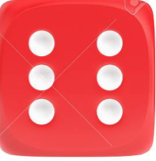
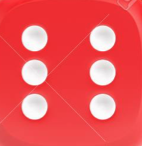
derniere mise à jour

diff --git a/jeude.js b/jeude.js
@@ -1,115 +1,115 @@
-function lancer() {
-    let nombre = Math.round(Math.random() * 5 + 1);
-    let resultat = document.querySelector('.de');
-    let currentJoueur1 = document.querySelector('.un');
-    let currentJoueur2 = document.querySelector('.deux');
-    let signal1 = document.querySelector('.signal1');
-    let signal2 = document.querySelector('.signal2');
+function hasard() {
+    let de = document.querySelector('.de');
+    let current1 = document.querySelector('.un');
+    let current2 = document.querySelector('.deux');
+    let currentActif = document.querySelector('.current.actif2');
 
-
-    if (nombre == 1) {
-        signal1.classList.toggle('lumiere');
-        signal2.classList.toggle('lumiere');
-        currentJoueur1.classList.toggle('actif');
-        currentJoueur2.classList.toggle('actif');
-        currentJoueur1.classList.toggle('inactif');
-        currentJoueur2.classList.toggle('inactif');
-        let actif = document.querySelector('.actif');
-        let inactif = document.querySelector('.inactif');
-
-
-        resultat.innerHTML = 1;
-
-
-    } else {
-
-        resultat.innerHTML = nombre;
-        let c = document.querySelector('.actif');
-
-        if (c.innerHTML == "") { c.innerHTML = 0; }
-        c.innerHTML = parseInt(c.innerHTML) + parseInt(resultat.innerHTML);
+    let n = Math.round(Math.random() * 5 + 1);
+    if (n == 1) {
+        de.className = 'de ein';
+        current1.innerHTML = 0;
+        current2.innerHTML = 0;
+        signal1.classList.toggle('actif');
+        signal2.classList.toggle('actif');
+        current1.classList.toggle('actif2');
+        current2.classList.toggle('actif2');
+        total1.classList.toggle('actif2');
+        total2.classList.toggle('actif2');
     }
 
-
-
+    if (n == 2) {
+        de.className = 'de zwei';
+        currentActif.innerHTML = parseInt(currentActif.innerHTML) + 2;
+    }
+    if (n == 3) {
+        de.cclassName = 'de drei';
+        currentActif.innerHTML = parseInt(currentActif.innerHTML) + 3;
+    }
+    if (n == 4) {
+        de.className = 'de vier';
+        currentActif.innerHTML = parseInt(currentActif.innerHTML) + 4;
+    }
+    if (n == 5) {
+        de.className = 'de funf';
+        currentActif.innerHTML = parseInt(currentActif.innerHTML) + 5;
+    }
+    if (n == 6) {
+        de.className = 'de sechs';
+        currentActif.innerHTML = parseInt(currentActif.innerHTML) + 6;
+    }
 }
 
 function tenir() {
-    let currentJoueur1 = document.querySelector('.un');
-    let currentJoueur2 = document.querySelector('.deux');
+    let currentActif = document.querySelector('.current.actif2');
+    let totalActif = document.querySelector('.total.actif2');
 
-    signal1.classList.toggle('lumiere');
-    signal2.classList.toggle('lumiere');
 
-    let totalJoueur1 = document.querySelector('.one');
-    let totalJoueur2 = document.querySelector('.two');
-    if (currentJoueur1.className != 0) {
-        totalJoueur1.innerHTML = parseInt(totalJoueur1.innerHTML) + parseInt(currentJoueur1.innerHTML);
 
-    }
-    if (totalJoueur1.innerHTML >= 100) {
+    total1.classList.toggle('actif2');
+    total2.classList.toggle('actif2');
+
+
+    totalActif.innerHTML = parseInt(totalActif.innerHTML) + parseInt(currentActif.innerHTML);
+    current1.classList.toggle('actif2');
+    current2.classList.toggle('actif2');
+    signal1.classList.toggle('actif');
+    signal2.classList.toggle('actif');
+
+    if (total1.innerHTML >= 100) {
         alert('Joueur 1 gagne!');
-        currentJoueur1.innerHTML = 0;
-        currentJoueur2.innerHTML = 0;
-        totalJoueur1.innerHTML = 0;
-        totalJoueur2.innerHTML = 0;
+        rejouer()
     }
-    if (currentJoueur2.innerHTML != 0) {
-        totalJoueur2.innerHTML = parseInt(totalJoueur2.innerHTML) + parseInt(currentJoueur2.innerHTML);
-
-    }
-    if (totalJoueur2.innerHTML >= 100) {
+    if (total2.innerHTML >= 100) {
         alert('Joueur 2 gagne!');
-        currentJoueur1.innerHTML = 0;
-        currentJoueur2.innerHTML = 0;
-        totalJoueur1.innerHTML = 0;
-        totalJoueur2.innerHTML = 0;
+        rejouer()
     }
-    currentJoueur1.classList.toggle('actif');
-    currentJoueur2.classList.toggle('actif');
-    currentJoueur1.classList.toggle('inactif');
-    currentJoueur2.classList.toggle('inactif');
-    currentJoueur1.innerHTML = 0;
-    currentJoueur2.innerHTML = 0;
+
+
+
+    current1.innerHTML = 0;
+    current2.innerHTML = 0;
 }
 
 function rejouer() {
-    let currentJoueur1 = document.querySelector('.un');
-    let currentJoueur2 = document.querySelector('.deux');
-
-    let totalJoueur1 = document.querySelector('.one');
-    let totalJoueur2 = document.querySelector('.two');
-    currentJoueur1.innerHTML = 0;
-    currentJoueur2.innerHTML = 0;
-    totalJoueur1.innerHTML = 0;
-    totalJoueur2.innerHTML = 0;
+    total1.innerHTML = 0;
+    total2.innerHTML = 0;
+    current1.innerHTML = 0;
+    current2.innerHTML = 0;
 }
 
 let toucheLancer = document.querySelector('.lancer');
-toucheLancer.addEventListener('click', lancer);
+toucheLancer.addEventListener('click', hasard);
 
 
-let toucheTenir = document.querySelector('.tenir');
-toucheTenir.addEventListener('click', tenir);
 
-let current1 = document.querySelector('.un');
-let current2 = document.querySelector('.deux');
-
-current1.classList.add('actif');
-current2.classList.add('inactif');
-
-let totalJoueur1 = document.querySelector('.one');
-let totalJoueur2 = document.querySelector('.two');
-
-let toucheRejouer = document.querySelector('.rejouer');
-toucheRejouer.addEventListener('click', rejouer);
 
 
 let signal1 = document.querySelector('.signal1');
 let signal2 = document.querySelector('.signal2');
+signal1.classList.add('actif');
 
-signal1.className = 'lumiere';
+let current1 = document.querySelector('.un');
+current1.innerHTML = 0;
 
+let current2 = document.querySelector('.deux');
+current2.innerHTML = 0;
 
-totalJoueur1.innerHTML = 0;
-totalJoueur2.innerHTML = 0;
+current1.classList.add('actif2');
+let currentActif = document.querySelector('.current.actif2');
+
+let boutonTenir = document.querySelector('.tenir');
+boutonTenir.addEventListener('click', tenir);
+
+let total = document.querySelectorAll('.total');
+total.innerHTML = 0;
+
+let total1 = document.querySelector('.total.one');
+let total2 = document.querySelector('.total.two');
+
+total1.innerHTML = 0;
+total2.innerHTML = 0;
+
+total1.classList.toggle('actif2');
+
+let toucheRejouer = document.querySelector('.rejouer');
+toucheRejouer.addEventListener('click', rejouer);

diff --git a/jeude2.css b/jeude2.css
@@ -36,6 +36,7 @@ body {
 .joueur {
     font-family: 'Lato', sans-serif;
     font-size: larger;
+    height: 4vh;
 }
 
 .current {
@@ -69,7 +70,7 @@ body {
 }
 
 .de {
-    background-color: black;
+    background-color: red;
     color: white;
     height: 10vh;
     width: 10vh;
@@ -78,8 +79,6 @@ body {
     left: 50vw;
     transform: translate(-50%, -50%);
     border-radius: 5px;
-    text-align: center;
-    line-height: 10vh;
 }
 
 .lancer {
@@ -116,18 +115,83 @@ body {
     color: black;
 }
 
-.lumiere {
-    height: 1vh;
-    width: 1vh;
-    border-radius: 50%;
-    background-color: red;
-    display: block;
-}
-
 .entete1 {
     display: flex;
 }
 
 .entete2 {
     display: flex;
+}
+
+.ein {
+    background-image: url('../Jeude/face/ein.png');
+    background-size: contain;
+    background-position: center;
+    background-repeat: no-repeat;
+    height: 11vh;
+    width: 11vh;
+    border-radius: 5px;
+}
+
+.zwei {
+    background-image: url('../Jeude/face/zwei.png');
+    background-size: contain;
+    background-position: center;
+    background-repeat: no-repeat;
+    height: 11vh;
+    width: 11vh;
+    border-radius: 5px;
+}
+
+.drei {
+    background-image: url('/Jeude/face/drei.png');
+    background-size: contain;
+    background-position: center;
+    background-repeat: no-repeat;
+    height: 11vh;
+    width: 11vh;
+    border-radius: 5px;
+}
+
+.vier {
+    background-image: url('../Jeude/face/vier.png');
+    background-size: contain;
+    background-position: center;
+    background-repeat: no-repeat;
+    height: 11vh;
+    width: 11vh;
+    border-radius: 5px;
+}
+
+.funf {
+    background-image: url('../Jeude/face/funf.png');
+    background-size: contain;
+    background-position: center;
+    background-repeat: no-repeat;
+    height: 11vh;
+    width: 11vh;
+    border-radius: 5px;
+}
+
+.sechs {
+    background-image: url('../Jeude/face/sechs.png');
+    background-size: contain;
+    background-position: center;
+    background-repeat: no-repeat;
+    height: 11vh;
+    width: 11vh;
+    border-radius: 5px;
+}
+
+.actif {
+    height: 1vh;
+    width: 1vh;
+    background-color: red;
+    border-radius: 50%;
+}
+
+.encadre {
+    display: flex;
+    height: 3vh;
+    align-items: center;
 }

diff --git a/jeude.html b/jeude.html
@@ -3,7 +3,7 @@
 
 <head>
     <meta charset="UTF-8">
-    <link rel="stylesheet" href="jeude.css">
+    <link rel="stylesheet" href="jeude2.css">
     <title>jeu de dé</title>
 </head>
 
@@ -17,7 +17,9 @@
         <div class="joueur1">
             <div class="entete1">
                 <div class="joueur">PLAYER 1</div>
-                <div class="signal1"></div>
+                <div class="encadre">
+                    <div class="signal1"></div>
+                </div>
             </div>
             <div class="total one"></div>
             <div class="current un"></div>
@@ -25,7 +27,9 @@
         <div class="joueur2">
             <div class="entete2">
                 <div class="joueur">PLAYER 2</div>
-                <div class="signal2"></div>
+                <div class="encadre">
+                    <div class="signal2"></div>
+                </div>
             </div>
             <div class="total two"></div>
             <div class="current deux"></div>
